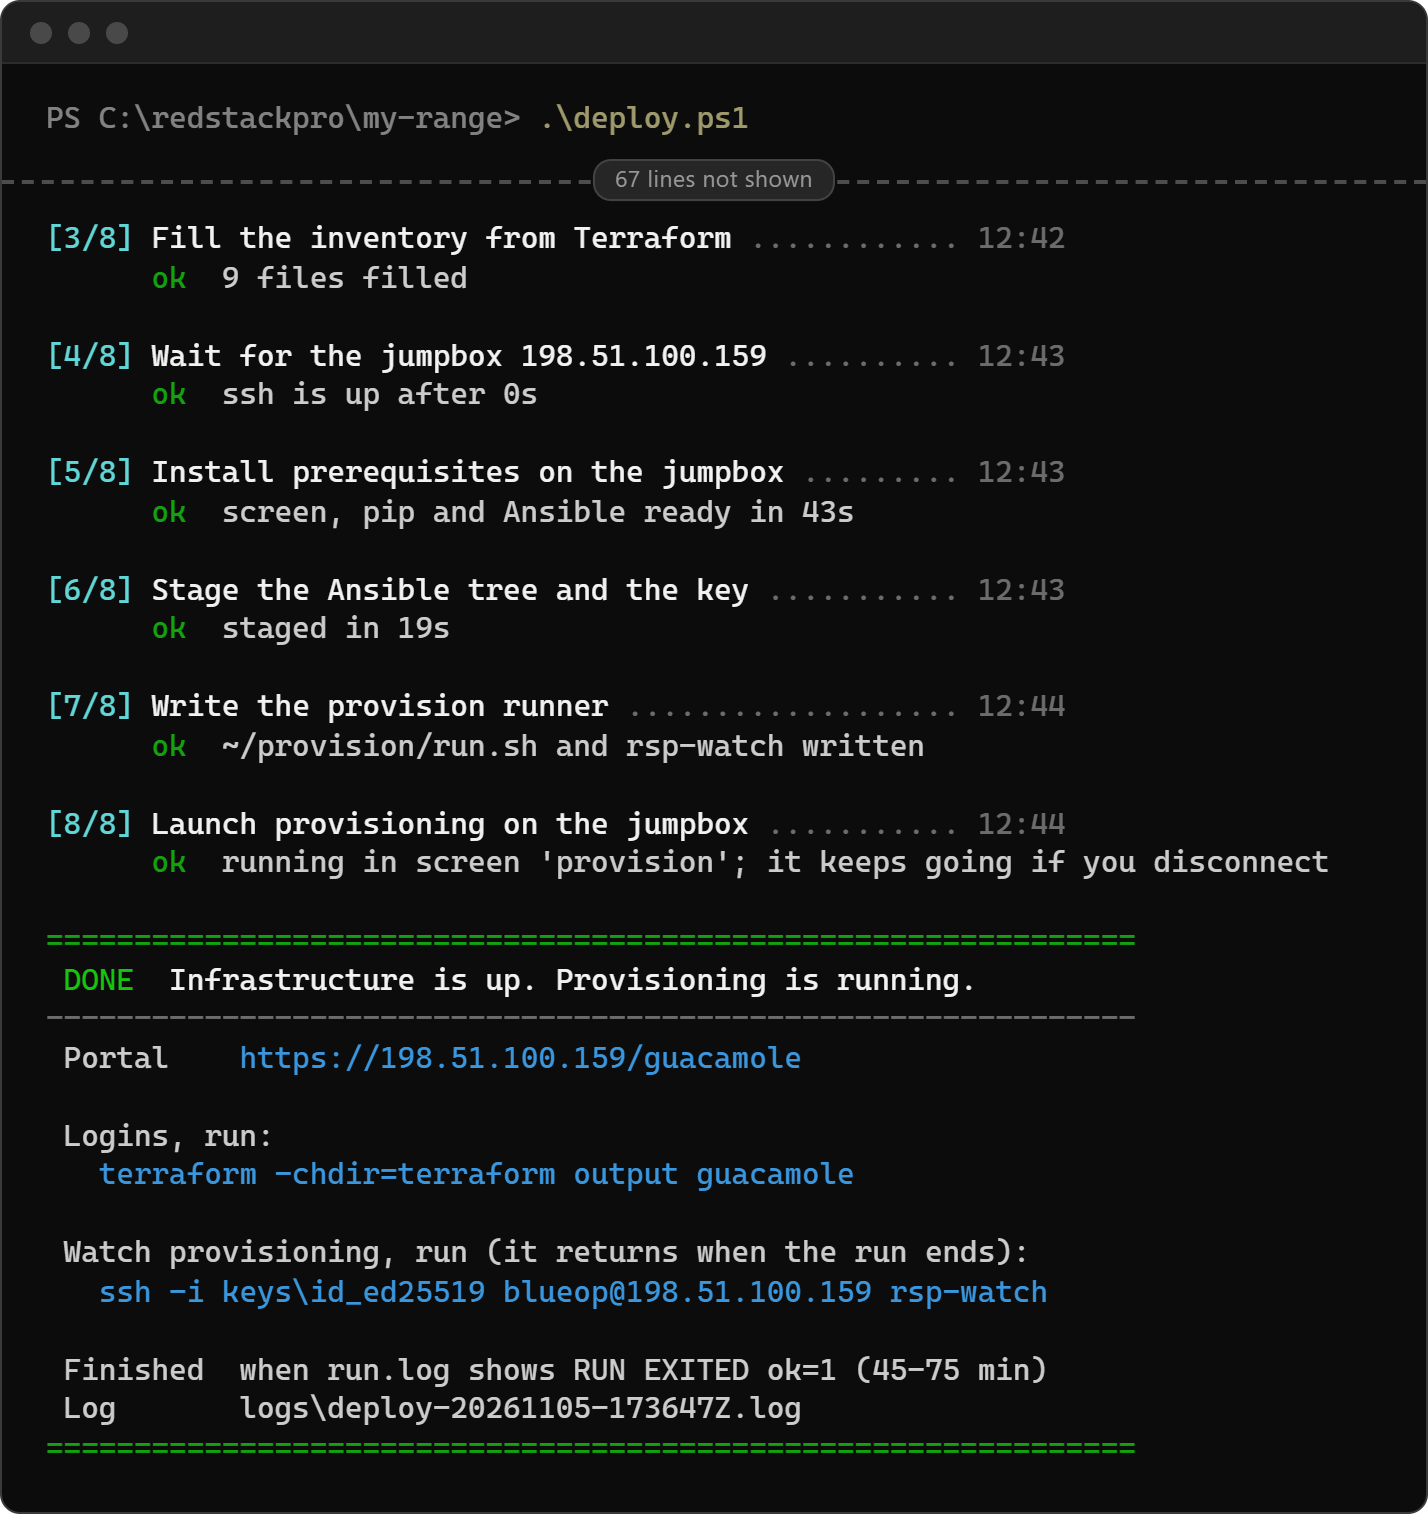
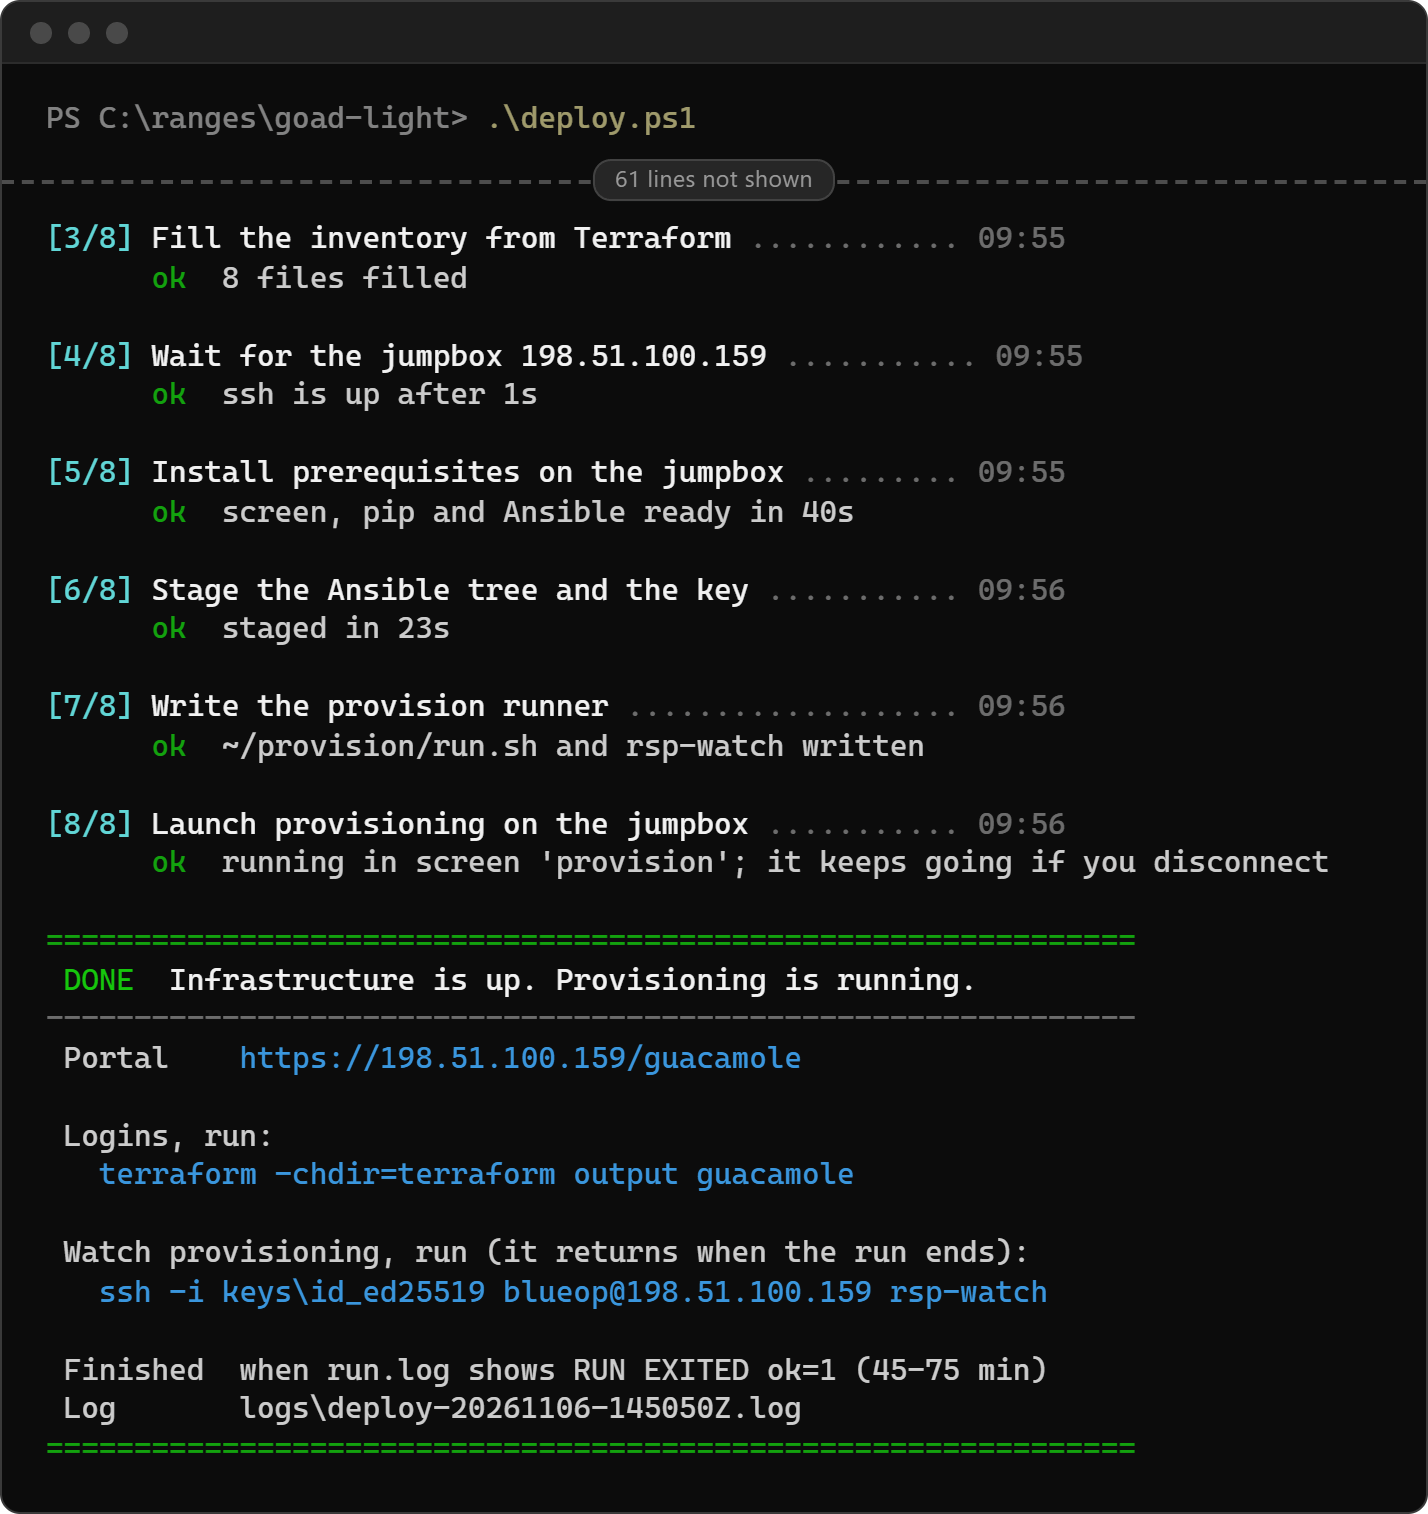
site: deploy terminal shots are a real GOAD-Light run

diff --git a/index.html b/index.html
@@ -332,16 +332,16 @@
         <figure class="shot-fig term term-run">
           <div class="shot-label"><span class="dot"></span>Deploy &middot; your terminal</div>
           <div class="frame">
-            <img src="terminal-deploy-hero.png" width="819" height="697" loading="lazy"
-                 alt="A PowerShell terminal in C:\redstackpro\my-range running .\deploy.ps1 for a five-host AD range on Azure eastus2 (GOAD-Light plus a Windows 11 workstation). Under the redStackPRO wordmark and the DEPLOY my-range header, step 1 of 8, preflight, reports 5 VMs on Standard_D2as_v7 with a quota of 10 of 10 vCPU, and step 2 of 8, Terraform apply, shows a plan of 47 to add followed by the first resources created, each with its time.">
+            <img src="terminal-deploy-hero.png" width="819" height="678" loading="lazy"
+                 alt="A PowerShell terminal in C:\ranges\goad-light running .\deploy.ps1 for GOAD-Light, a four-host Active Directory range on Azure eastus2. Under the redStackPRO wordmark and the DEPLOY GOAD-Light header, step 1 of 8, preflight, reports 4 VMs on Standard_D2as_v7 with a quota of 8 of 10 vCPU, and step 2 of 8, Terraform apply, shows a plan of 41 to add followed by the first resources created, each with its time.">
           </div>
-          <figcaption><code>deploy.ps1</code> on a five-host AD range in Azure (GOAD-Light plus a Windows 11 workstation): a preflight check of VM sizes and vCPU quota, then the Terraform plan and each resource as it is created.</figcaption>
+          <figcaption><code>deploy.ps1</code> for GOAD-Light, a four-host AD range in Azure: a preflight check of VM sizes and vCPU quota, then the Terraform plan and each resource as it is created.</figcaption>
         </figure>
         <figure class="shot-fig term term-done">
           <div class="shot-label"><span class="dot"></span>Done &middot; what to run next</div>
           <div class="frame">
             <img src="terminal-deploy-done.png" width="714" height="757" loading="lazy"
-                 alt="The end of the same deploy. Steps 3 to 8 each finish ok, from filling the inventory to launching provisioning on the jumpbox in a screen session that keeps going if you disconnect. A green DONE box reads: Infrastructure is up. Provisioning is running. It lists the Guacamole portal URL, the terraform output command for logins, the ssh command to watch provisioning, and that the run is finished when run.log shows RUN EXITED ok=1, in 45 to 75 minutes.">
+                 alt="The end of the same deploy. Steps 3 to 8 each finish ok, from filling the inventory to launching provisioning on the jumpbox in a screen session that keeps going if you disconnect. A green DONE box reads: Infrastructure is up. Provisioning is running. It lists the Guacamole portal URL, the terraform output command for logins, a one-line ssh command that runs rsp-watch to follow provisioning and return when the run ends, and that the run is finished when run.log shows RUN EXITED ok=1, in 45 to 75 minutes.">
           </div>
           <figcaption>The end of the same run: provisioning keeps going on the jumpbox in a screen session, and the DONE box gives the portal URL, the commands for logins and for watching the run, and how long it takes.</figcaption>
         </figure>
